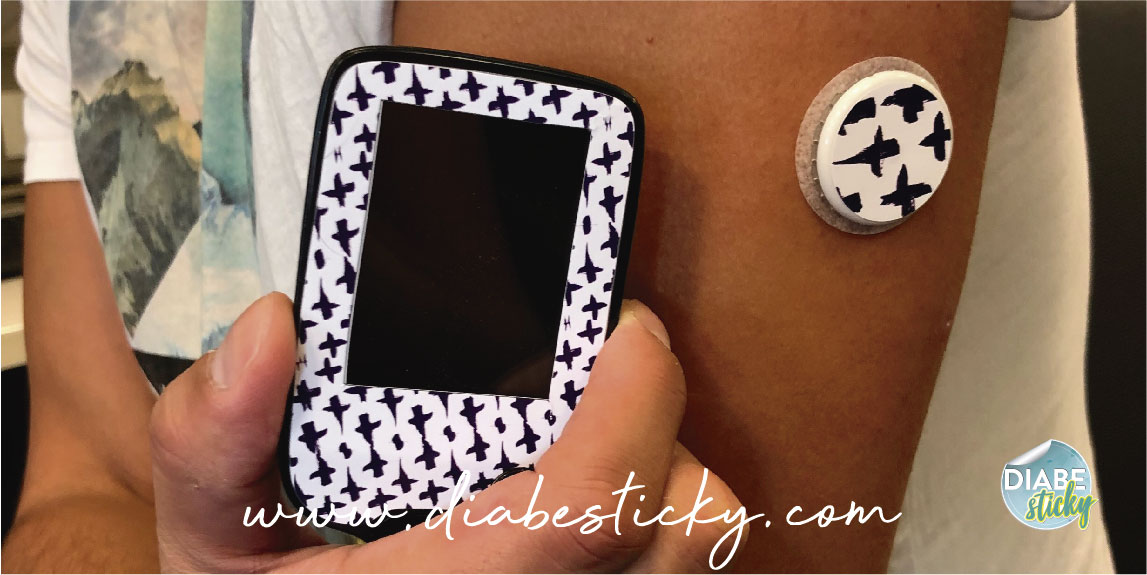
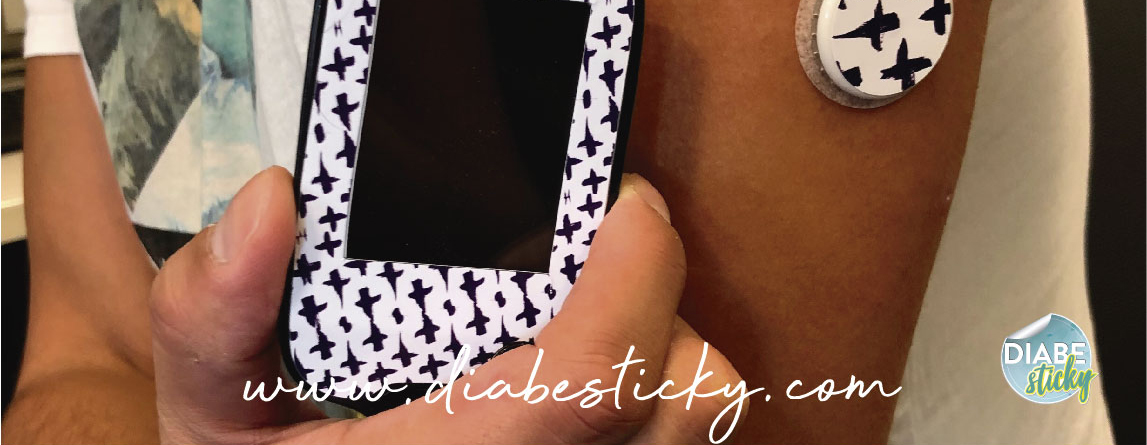
Modificacion de fotos de carrousel

diff --git a/index.html b/index.html
@@ -119,7 +119,7 @@
             <img src="./img/carrouselflamenco.jpg" class="d-block w-100" alt="carrousel flamenco">
           </div>
           <div class="carousel-item">
-            <img src="./img/carrouselsoldado.jpg" class="d-block w-100" alt="carrousel star wars">
+            <img src="./img/carrousel-sensores.jpg" class="d-block w-100" alt="carrousel Sensores">
           </div>
         </div>
 
